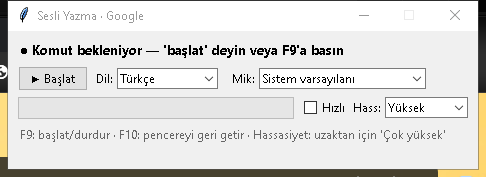
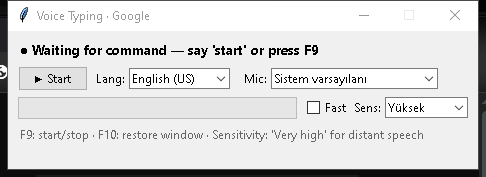
English README and UI language support (Turkish/English)

diff --git a/README.md b/README.md
@@ -1,157 +1,158 @@
-# 🎙 Sesli Yazma
+# 🎙 Voice Typing (Sesli Yazma)
 
-**Windows'ta her yerde çalışan, ücretsiz sistem geneli dikte uygulaması.**
+**Free, open-source, system-wide voice dictation for Windows.**
 
-Konuşun; yazdıklarınız **o anda odakta olan pencereye** gerçek klavye girişi olarak yazılsın. Word, tarayıcı, Notepad, Excel, WhatsApp Web, Discord… metin kutusu olan her yerde çalışır. Kopyala-yapıştır yok, ayrı bir metin kutusu yok.
+Speak and your words are typed into **whichever window has focus** — Word, browser, Notepad, Excel, WhatsApp Web, Discord… anywhere a text cursor exists. No text box, no copy-paste.
 
-[![İndir](https://img.shields.io/badge/İndir-Kurulum%20dosyası-success?style=for-the-badge)](../../releases/latest)
+[![Download](https://img.shields.io/badge/Download-Installer-success?style=for-the-badge)](https://github.com/sinancan1/sesli-yazma/releases/latest)
 [![Platform](https://img.shields.io/badge/platform-Windows%2010%20%2F%2011-blue?style=flat-square)](#)
 [![Python](https://img.shields.io/badge/python-3.10%2B-blue?style=flat-square)](#)
-[![Lisans](https://img.shields.io/badge/lisans-MIT-green?style=flat-square)](LICENSE)
+[![License](https://img.shields.io/badge/license-MIT-green?style=flat-square)](LICENSE)
 
-![Sesli Yazma ekran görüntüsü](docs/screenshot.png)
-
----
-
-## ✨ Özellikler
-
-- **Sistem geneli dikte:** F9 ile başlat/durdur; yazı odaklı pencereye gider.
-- **Metin kutusu yok:** Kopyala-yapıştır gerekmez, imlecin olduğu yere yazar.
-- **Sesli başlatma:** Program kapalıyken bile "başlat" diyerek dinlemeyi açabilirsiniz.
-- **Sesli komutlar:** "nokta", "virgül", "yeni satır", "gönder", "sil", "geri al" vb.
-- **Türkçe karakter desteği:** ş, ğ, ı, ç, ö, ü komutlarda ve metinde sorunsuz.
-- **Mesafeden konuşma:** Hassasiyet ayarı + otomatik kazanç (gain).
-- **Mikrofon seçimi:** Cihazı değiştirdiğinizde **programı yeniden başlatmanız gerekmez**.
-- **Mini kart:** Sağ üstte durur, odağı çalmaz; F10 ile geri getirilir.
-- **Hızlı mod:** Sessizlik eşiğini 500 ms'den 300 ms'ye düşürür.
-- **Tek dosya kurulum:** Python gerekmez; tüm bağımlılıklar paket içindedir.
+![Voice Typing screenshot](docs/screenshot.png)
 
 ---
 
-## 📥 İndirme ve kurulum
+## ✨ Features
 
-1. [**Releases**](https://github.com/sinancan1/sesli-yazma/releases/latest) sayfasından `SesliYazma_Kurulum.exe` dosyasını indirin.
-2. Dosyayı çift tıklayın → **İleri → Kur → Bitir**.
-3. İsterseniz kurulum sırasında **"Masaüstü kısayolu oluştur"** seçeneğini işaretleyin.
-4. Masaüstündeki **Sesli Yazma** kısayolundan programı açın.
+- **System-wide dictation:** Press F9 to start/stop; text goes to the focused window.
+- **No text box:** No copy-paste needed — types exactly where the cursor is.
+- **Voice start:** Say "start" to begin listening even when paused.
+- **Voice commands:** "period", "comma", "new line", "send/enter", "delete", "undo", etc.
+- **Turkish character support:** ş, ğ, ı, ç, ö, ü in both commands and text.
+- **Distant speech:** Sensitivity control + automatic gain (AGC).
+- **Instant microphone switching:** Change the input device without restarting the app.
+- **Mini card:** Stays on top without stealing focus; restore with F10.
+- **Fast mode:** Lowers the silence threshold from 500 ms to 300 ms.
+- **One-file installer:** No Python required — all dependencies are bundled.
 
-> **Windows SmartScreen uyarısı:** Uygulama ücretsiz ve açık kaynak olduğu için dijital imza yoktur. "Windows bilgisayarınızı korudu" ekranı çıkarsa **Ek bilgi → Yine de çalıştır** deyin.
+The interface follows your speech language: Turkish UI for Turkish, English UI otherwise.
 
-**Sistem gereksinimleri:** Windows 10/11 (64-bit), internet bağlantısı, mikrofon.
+---
 
-> **Kurulum, Microsoft Visual C++ 2015-2022 (x64) çalışma zamanını da kontrol eder; kurulu değilse kurulum tarafından otomatik kurulur.** Ayrı bir işlem yapmanız gerekmez.
+## 📥 Download & install
 
-### Kurulum olmadan (kaynak koddan)
+1. Download `SesliYazma_Kurulum.exe` from the [**Releases**](https://github.com/sinancan1/sesli-yazma/releases/latest) page.
+2. Double-click → **Next → Install → Finish**.
+3. Optionally check "Create desktop shortcut" during setup.
+4. Launch **Sesli Yazma** from the desktop shortcut or Start menu.
 
-Python 3.10+ kurulu olmalı:
+> **Windows SmartScreen:** The app is free and open source, so it is not digitally signed. If you see "Windows protected your PC", click **More info → Run anyway**.
+
+**System requirements:** Windows 10/11 (64-bit), internet connection, microphone.
+
+> The installer also checks for **Microsoft Visual C++ 2015–2022 (x64) Runtime** and installs it automatically if missing. You don't need to do anything.
+
+### Run from source
+
+Requires Python 3.10+:
 
 ```bash
-git clone https://github.com/<kullanici>/sesli-yazma.git
+git clone https://github.com/sinancan1/sesli-yazma.git
 cd sesli-yazma
 python -m venv .venv
 .venv\Scripts\python.exe -m pip install -r requirements.txt
 .venv\Scripts\python.exe sesli_yazma.py
 ```
 
-Windows'ta `setup.bat` dosyası bunu otomatik yapar; ardından `start.bat` ile çalıştırın.
+On Windows, `setup.bat` does this automatically; then run `start.bat`.
 
 ---
 
-## 🚀 Kullanım
+## 🚀 Usage
 
-1. Programı açın. Mini kart sağ üstte görünür.
-2. Yazmak istediğiniz uygulamaya tıklayın (imleç metin alanında olsun).
-3. **F9**'a basın veya **"başlat"** deyin. Kart "● Dinliyor…" durumuna geçer.
-4. Konuşun. Her cümle/parça tanınıp odaklı pencereye yazılır.
-5. Bitince **F9**'a tekrar basın veya **"durdur"** deyin.
+1. Open the app. The mini card appears in the top-right corner.
+2. Click into the target application (cursor must be in a text field).
+3. Press **F9** or say **"start"**. The card shows "● Listening…".
+4. Speak. Each sentence/segment is recognized and typed into the focused window.
+5. Press **F9** again or say **"stop"** when done.
 
-| Kısayol | İşlev |
+| Shortcut | Action |
 |---|---|
-| **F9** | Dinlemeyi başlat / durdur |
-| **F10** | Mini kartı geri getir |
-| Kartı kapatma | Programdan çıkar |
+| **F9** | Start / stop listening |
+| **F10** | Restore the mini card |
+| Closing the card | Exits the program |
 
-> **İpucu:** Uzaktan konuşuyorsanız **Hassasiyet → Çok yüksek** seçin. Gürültülü ortamda "Yüksek" veya "Orta" daha iyi sonuç verebilir.
+> **Tip:** For distant speech, set **Sensitivity → Very high**. In noisy environments, "High" or "Medium" may work better.
 
-### Mikrofon değiştirme
+### Microphone selection
 
-Karttaki **Mik** kutusundan istediğiniz giriş cihazını seçin. Seçim **anında** uygulanır; programı yeniden başlatmanız gerekmez. Cihaz değişirken kart kısa süre "Mikrofon değiştiriliyor…" gösterir.
+Pick the input device from the **Mic** dropdown on the card. The change is applied **instantly** — no restart required. While switching, the card briefly shows "Switching microphone…".
 
 ---
 
-## 🗣 Sesli komutlar
+## 🗣 Voice commands
 
-Aşağıdaki kelimeleri söylediğinizde metin olarak yazılmaz; ilgili işlem yapılır.
+These words are not typed as text; they trigger the corresponding action.
 
-### Noktalama ve biçim
+### Punctuation & formatting
 
-| Söylediğiniz | Sonuç |
+| Say | Result |
 |---|---|
-| nokta | `.` |
-| virgül | `,` |
-| soru işareti / soru | `?` |
-| ünlem işareti / ünlem | `!` |
-| iki nokta | `:` |
-| noktalı virgül | `;` |
-| parantez aç / parantez kapa | `(` / `)` |
-| tırnak aç / tırnak kapa | `"` |
-| boşluk | boşluk |
-| yeni satır | Enter |
-| yeni paragraf | Çift Enter |
+| period | `.` |
+| comma | `,` |
+| question mark / question | `?` |
+| exclamation mark / exclamation | `!` |
+| colon | `:` |
+| semicolon | `;` |
+| open parenthesis / close parenthesis | `(` / `)` |
+| open quote / close quote | `"` |
+| space | space |
+| new line | Enter |
+| new paragraph | Double Enter |
 
-### Tuşlar ve düzenleme
+### Keys & editing
 
-| Söylediğiniz | Sonuç |
+| Say | Result |
 |---|---|
-| gönder / enter | Enter |
-| tab / sekme | Tab |
-| sil | Backspace |
-| kelime sil | Ctrl + Backspace |
-| geri al | Ctrl + Z |
-| tümünü sil / hepsini sil | Tümünü seç + sil |
+| send / enter | Enter |
+| tab | Tab |
+| delete | Backspace |
+| delete word | Ctrl + Backspace |
+| undo | Ctrl + Z |
+| delete all / delete everything | Select all + delete |
 | escape | Esc |
 
-### Program kontrolü
+### Program control
 
-| Söylediğiniz | Sonuç |
+| Say | Result |
 |---|---|
-| başlat / dinlemeye başla | Dinlemeyi başlatır |
-| durdur / programı durdur / kapat / bitir | Dinlemeyi durdurur |
-| hızlı mod | Hızlı mod (300 ms sessizlik) |
-| normal mod | Normal mod (500 ms sessizlik) |
-| büyük harf | BÜYÜK HARF modu |
-| küçük harf | Normal harf modu |
+| start / begin listening | Start listening |
+| stop / stop program / close / finish | Stop listening |
+| fast mode | Fast mode (300 ms silence) |
+| normal mode | Normal mode (500 ms silence) |
+| caps / capital letters | CAPS mode |
+| lowercase | Normal case mode |
 
-> "tamam", "evet", "hayır" gibi günlük kelimeler komut değildir; normal metin olarak yazılır.
+> Everyday words like "okay", "yes", "no" are typed as normal text, not commands.
 
 ---
 
-## 🛠 Sorun giderme
+## 🛠 Troubleshooting
 
-| Sorun | Çözüm |
+| Problem | Solution |
 |---|---|
-| **"Mikrofon hatası"** | Windows Ayarlar → Gizlilik ve güvenlik → Mikrofon → "Uygulamaların mikrofonunuza erişmesine izin ver" açık olsun. |
-| **"Google hizmetine ulaşılamadı"** | İnternet bağlantınızı kontrol edin; kurumsal ağlar/vpn engelliyor olabilir. |
-| **Uzaktan algılamıyor** | Hassasiyeti **Çok yüksek** yapın; mikrofona doğrudan bakacak şekilde konumlandırın. |
-| **Yanlış cihaz seçili** | Karttaki **Mik** kutusundan doğru cihazı seçin — yeniden başlatma gerekmez. |
-| **Kart kayboldu** | **F10**'a basın veya görev çubuğundaki simgeye tıklayın. |
-| **SmartScreen uyarısı** | **Ek bilgi → Yine de çalıştır**. |
+| **"Microphone error"** | Windows Settings → Privacy & security → Microphone → "Let apps access your microphone" must be on. |
+| **"Could not reach Google service"** | Check your internet connection; corporate networks/VPNs may block it. |
+| **Not detecting distant speech** | Set Sensitivity to **Very high**; face the microphone. |
+| **Wrong device selected** | Pick the correct device from the **Mic** dropdown — no restart needed. |
+| **Card disappeared** | Press **F10** or click the taskbar icon. |
+| **SmartScreen warning** | Click **More info → Run anyway**. |
 
 ---
 
-## 🔒 Gizlilik ve notlar
+## 🔒 Privacy
 
-- **Uygulama uzaktan hiçbir veri toplamaz.** Konuşma parçaları yalnızca tanıma için Google'ın ücretsiz Web Speech uç noktasına gönderilir; bunun dışında herhangi bir sunucuya, analiz servisine veya üçüncü tarafa veri aktarılmaz. Yazılar tamamen sizin bilgisayarınızda oluşturulur.
-- Konuşma parçaları tanıma için **Google'ın ücretsiz Web Speech uç noktasına** gönderilir. Ayrı bir API anahtarı gerekmez.
-- Uygulama kendi sunucusuna hiçbir veri göndermez; yazılar doğrudan bilgisayarınızda oluşturulur.
-- Google uç noktası resmî olmayan, ücretsiz bir hizmettir; ileride değişebilir veya sınırlandırılabilir. Yoğun kullanım için Google Cloud Speech-to-Text gibi resmî bir API'ye geçmeniz önerilir.
-- Bu proje Google, Microsoft veya başka bir şirketle bağlantılı değildir.
+- **The app collects no remote data.** Speech segments are sent only to Google's free Web Speech endpoint for recognition; nothing else is transmitted to any server, analytics service, or third party. All text is generated locally on your computer.
+- Speech segments are sent to **Google's free Web Speech endpoint** for recognition. No separate API key is required.
+- The app has no connection to Google, Microsoft, or any other company.
+- The Google endpoint is an unofficial, free service and may change or be rate-limited in the future. For heavy use, consider an official API such as Google Cloud Speech-to-Text.
 
 ---
 
-## 🧑💻 Geliştirme
+## 🧑💻 Development
 
-### Derleme (tek dosya EXE)
+### Build (single-file EXE)
 
 ```bash
 .venv\Scripts\python.exe -m pip install pyinstaller
@@ -161,32 +162,34 @@ Aşağıdaki kelimeleri söylediğinizde metin olarak yazılmaz; ilgili işlem y
   --hidden-import numpy sesli_yazma.py
 ```
 
-### Kurulum dosyası (Inno Setup)
+### Installer (Inno Setup)
 
-1. [Inno Setup 6](https://jrsoftware.org/isinfo.php) kurun.
-2. `installer.iss` dosyasını açıp derleyin veya komut satırından:
+1. Install [Inno Setup 6](https://jrsoftware.org/isinfo.php).
+2. Open `installer.iss` and compile, or from the command line:
 
 ```bash
 "C:\Program Files (x86)\Inno Setup 6\ISCC.exe" installer.iss
 ```
 
-Çıktı: `installer_output\SesliYazma_Kurulum.exe`
+Output: `installer_output\SesliYazma_Kurulum.exe`
+
+The installer bundles the Microsoft Visual C++ 2015–2022 (x64) Runtime and installs it automatically if missing.
 
 ---
 
-## 🤝 Katkı
+## 🤝 Contributing
 
-Hata bildirimi, öneri ve pull request'ler memnuniyetle karşılanır. Lütfen önce bir issue açın; büyük değişiklikler için yaklaşımı birlikte netleştirelim.
+Bug reports, suggestions, and pull requests are welcome. Please open an issue first; for large changes, let's discuss the approach together.
 
-## 📄 Lisans
+## 📄 License
 
-[MIT](LICENSE) — ücretsiz kullanabilir, değiştirebilir ve dağıtabilirsiniz.
+[MIT](LICENSE) — free to use, modify, and distribute.
 
 ---
 
 <details>
-<summary><b>English summary</b></summary>
+<summary><b>Türkçe özet</b></summary>
 
-**Sesli Yazma** is a free, open-source, system-wide dictation app for Windows. It uses Google's free Web Speech endpoint for Turkish (and 9 other languages) speech recognition, then types the result into whichever window has focus using real keyboard input — no copy-paste, no text box. Press **F9** to start/stop, say **"başlat"** to start by voice, and use voice commands for punctuation, Enter, Tab, undo, etc. The microphone can be switched instantly without restarting the app. Installer requires no Python; source build is Python 3.10+.
+**Sesli Yazma**, Windows'ta her yerde çalışan ücretsiz ve açık kaynaklı sistem geneli dikte uygulamasıdır. Google'ın ücretsiz Web Speech uç noktasıyla konuşmanızı metne çevirir ve odaktaki pencereye gerçek klavye girişi olarak yazar. **F9** ile başlat/durdur, **"başlat"** diyerek sesli başlatma, noktalama/tuş sesli komutları, 10 dil desteği ve hazır kurulum dosyası. Uygulama uzaktan hiçbir veri toplamaz.
 
 </details>
